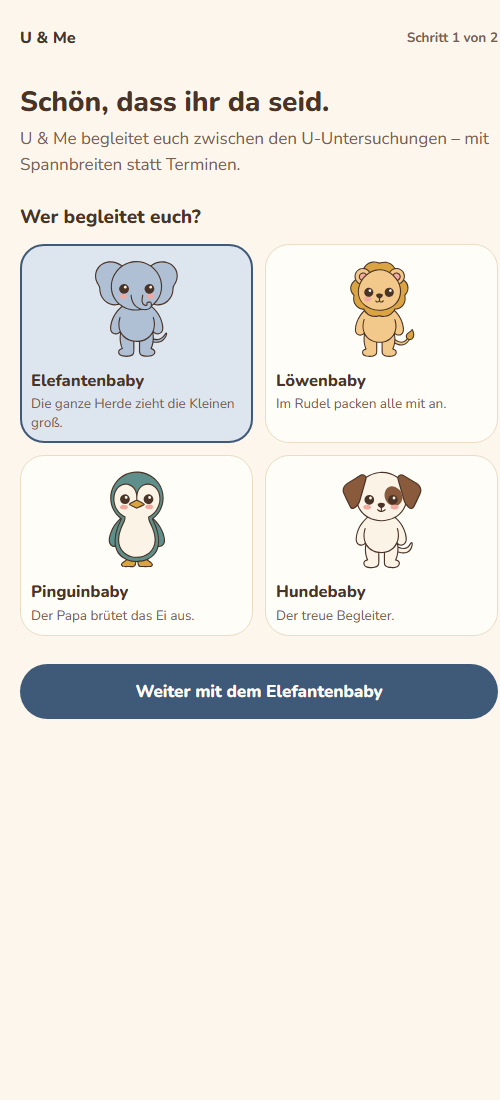
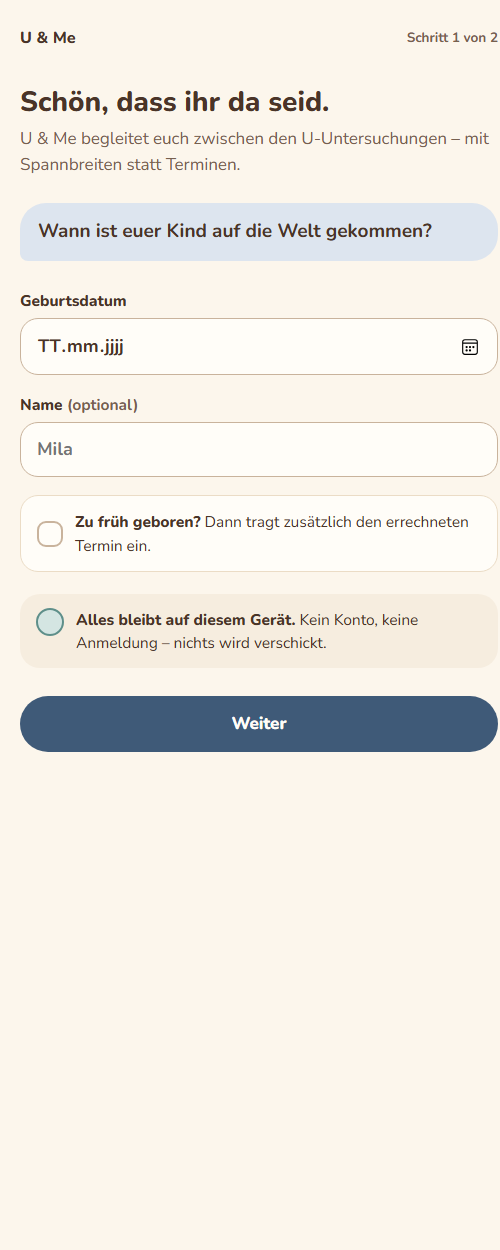
Onboarding umgedreht: erst Angaben, dann Maskottchen
- Schritt 1: Geburtsdatum, Name, Frühchen-Termin, Datenschutz (Prüfung vor dem Weiter)
- Schritt 2: 'Wer begleitet Mila?' – Tierwahl ohne sichtbare Tiernamen, Button 'Los geht's'
- Tiernamen nur noch für Screenreader

diff --git a/src/components/Onboarding.tsx b/src/components/Onboarding.tsx
@@ -1,9 +1,8 @@
 import { useState, type FormEvent } from 'react';
 import { datumBeiAlter, heute, parseDatum } from '../lib/alter';
 import { akzentSetzen } from '../lib/darstellung';
-import { maskottchen, maskottchenBild, maskottchenInfo, type MaskottchenId } from '../lib/inhalte';
+import { maskottchen, maskottchenBild, type MaskottchenId } from '../lib/inhalte';
 import type { Profil } from '../lib/speicher';
-import { Avatar } from './Avatar';
 
 type Props = {
   /** Vorbefüllen bei „Angaben ändern“ */
@@ -14,33 +13,44 @@ type Props = {
 
 const isoHeute = () => heute().toLocaleDateString('sv-SE'); // sv-SE = YYYY-MM-DD in lokaler Zeit
 
+/** Schritt 1: Angaben zum Kind · Schritt 2: Maskottchen wählen */
 export function Onboarding({ vorher, onFertig, onAbbrechen }: Props) {
   const [schritt, setSchritt] = useState<1 | 2>(1);
-  const [tier, setTier] = useState<MaskottchenId>(vorher?.maskottchen ?? 'elefant');
   const [geburtsdatum, setGeburtsdatum] = useState(vorher?.geburtsdatum ?? '');
   const [name, setName] = useState(vorher?.name ?? '');
   const [zuFrueh, setZuFrueh] = useState(!!vorher?.errechneterTermin);
   const [termin, setTermin] = useState(vorher?.errechneterTermin ?? '');
+  const [tier, setTier] = useState<MaskottchenId>(vorher?.maskottchen ?? 'elefant');
   const [fehler, setFehler] = useState('');
+
+  function pruefen(): string {
+    if (!geburtsdatum) return 'Bitte tragt das Geburtsdatum ein.';
+    const geburt = parseDatum(geburtsdatum);
+    if (geburt > heute()) return 'Das Geburtsdatum liegt in der Zukunft – bitte prüft es noch einmal.';
+    if (datumBeiAlter(geburt, { monate: 24 }) <= heute()) {
+      return 'Euer Kind ist schon älter als 2 Jahre. U & Me begleitet euch im Moment nur bis zur U7 – für ältere Kinder folgen die Inhalte später.';
+    }
+    if (zuFrueh && termin && parseDatum(termin) <= geburt) return 'Der errechnete Termin sollte nach dem Geburtsdatum liegen.';
+    return '';
+  }
+
+  function weiter(e: FormEvent) {
+    e.preventDefault();
+    const problem = pruefen();
+    setFehler(problem);
+    if (!problem) {
+      akzentSetzen(tier);
+      setSchritt(2);
+    }
+  }
 
   function tierWaehlen(id: MaskottchenId) {
     setTier(id);
     akzentSetzen(id); // Akzent wechselt sofort mit
   }
 
-  function absenden(e: FormEvent) {
+  function fertig(e: FormEvent) {
     e.preventDefault();
-    if (!geburtsdatum) return setFehler('Bitte tragt das Geburtsdatum ein.');
-    const geburt = parseDatum(geburtsdatum);
-    if (geburt > heute()) return setFehler('Das Geburtsdatum liegt in der Zukunft – bitte prüft es noch einmal.');
-    if (datumBeiAlter(geburt, { monate: 24 }) <= heute()) {
-      return setFehler(
-        'Euer Kind ist schon älter als 2 Jahre. U & Me begleitet euch im Moment nur bis zur U7 – für ältere Kinder folgen die Inhalte später.',
-      );
-    }
-    if (zuFrueh && termin && parseDatum(termin) <= geburt) {
-      return setFehler('Der errechnete Termin sollte nach dem Geburtsdatum liegen.');
-    }
     onFertig({
       maskottchen: tier,
       geburtsdatum,
@@ -51,7 +61,7 @@ export function Onboarding({ vorher, onFertig, onAbbrechen }: Props) {
 
   if (schritt === 1) {
     return (
-      <div className="onboarding">
+      <form className="onboarding" onSubmit={weiter} noValidate>
         <div className="onboarding-kopf">
           {onAbbrechen ? (
             <button type="button" className="zurueck" onClick={onAbbrechen}>← Abbrechen</button>
@@ -64,82 +74,75 @@ export function Onboarding({ vorher, onFertig, onAbbrechen }: Props) {
           <h1>{vorher ? 'Angaben ändern' : 'Schön, dass ihr da seid.'}</h1>
           <p className="gedaempft">U &amp; Me begleitet euch zwischen den U-Untersuchungen – mit Spannbreiten statt Terminen.</p>
         </div>
-        <fieldset className="onboarding-auswahl">
-          <legend>Wer begleitet euch?</legend>
-          <div className="tier-raster">
-            {maskottchen.map((m) => (
-              <label key={m.id} className="tier-karte">
-                <input
-                  type="radio"
-                  name="maskottchen"
-                  value={m.id}
-                  checked={tier === m.id}
-                  onChange={() => tierWaehlen(m.id)}
-                />
-                <span className="tier-bild"><img src={maskottchenBild(m.id)} alt="" /></span>
-                <span className="tier-name">{m.name}</span>
-                <span className="tier-geschichte">{m.geschichte}</span>
-              </label>
-            ))}
-          </div>
-        </fieldset>
-        <div className="onboarding-cta">
-          <button type="button" className="knopf" onClick={() => setSchritt(2)}>
-            Weiter mit {maskottchenInfo(tier).artikel}
-          </button>
+
+        <div className="onboarding-frage">
+          <div className="sprechblase"><p>Wann ist euer Kind auf die Welt gekommen?</p></div>
         </div>
-      </div>
+
+        <div className="felder">
+          <label className="feld">
+            <span className="feld-label">Geburtsdatum</span>
+            <input
+              type="date"
+              value={geburtsdatum}
+              max={isoHeute()}
+              required
+              onChange={(e) => { setGeburtsdatum(e.target.value); setFehler(''); }}
+            />
+          </label>
+          <label className="feld">
+            <span className="feld-label">Name <span className="gedaempft">(optional)</span></span>
+            <input type="text" value={name} placeholder="Mila" autoComplete="off" onChange={(e) => setName(e.target.value)} />
+          </label>
+          <label className="ankreuzen">
+            <input type="checkbox" checked={zuFrueh} onChange={(e) => setZuFrueh(e.target.checked)} />
+            <span className="kaestchen" aria-hidden="true">{zuFrueh ? '✓' : ''}</span>
+            <span><b>Zu früh geboren?</b> Dann tragt zusätzlich den errechneten Termin ein.</span>
+          </label>
+          {zuFrueh && (
+            <label className="feld">
+              <span className="feld-label">Errechneter Termin</span>
+              <input type="date" value={termin} onChange={(e) => { setTermin(e.target.value); setFehler(''); }} />
+            </label>
+          )}
+        </div>
+
+        {fehler && <p className="fehler" role="alert">{fehler}</p>}
+
+        <div className="datenschutz">
+          <div className="hinweisbox">
+            <span className="hinweisbox-punkt bewegung" aria-hidden="true" />
+            <p><b>Alles bleibt auf diesem Gerät.</b> Kein Konto, keine Anmeldung – nichts wird verschickt.</p>
+          </div>
+        </div>
+
+        <div className="onboarding-cta">
+          <button type="submit" className="knopf">Weiter</button>
+        </div>
+      </form>
     );
   }
 
   return (
-    <form className="onboarding" onSubmit={absenden} noValidate>
+    <form className="onboarding" onSubmit={fertig}>
       <div className="onboarding-kopf">
-        <button type="button" className="zurueck" onClick={() => { setSchritt(1); setFehler(''); }}>← Zurück</button>
+        <button type="button" className="zurueck" onClick={() => setSchritt(1)}>← Zurück</button>
         <span className="schritt">Schritt 2 von 2</span>
       </div>
-      <div className="begruessung onboarding-frage">
-        <Avatar tier={tier} groesse={72} />
-        <div className="sprechblase"><p>Wann ist euer Kind auf die Welt gekommen?</p></div>
-      </div>
-
-      <div className="felder">
-        <label className="feld">
-          <span className="feld-label">Geburtsdatum</span>
-          <input
-            type="date"
-            value={geburtsdatum}
-            max={isoHeute()}
-            required
-            onChange={(e) => { setGeburtsdatum(e.target.value); setFehler(''); }}
-          />
-        </label>
-        <label className="feld">
-          <span className="feld-label">Name <span className="gedaempft">(optional)</span></span>
-          <input type="text" value={name} placeholder="Mila" autoComplete="off" onChange={(e) => setName(e.target.value)} />
-        </label>
-        <label className="ankreuzen">
-          <input type="checkbox" checked={zuFrueh} onChange={(e) => setZuFrueh(e.target.checked)} />
-          <span className="kaestchen" aria-hidden="true">{zuFrueh ? '✓' : ''}</span>
-          <span><b>Zu früh geboren?</b> Dann tragt zusätzlich den errechneten Termin ein.</span>
-        </label>
-        {zuFrueh && (
-          <label className="feld">
-            <span className="feld-label">Errechneter Termin</span>
-            <input type="date" value={termin} onChange={(e) => { setTermin(e.target.value); setFehler(''); }} />
-          </label>
-        )}
-      </div>
-
-      {fehler && <p className="fehler" role="alert">{fehler}</p>}
-
-      <div className="datenschutz">
-        <div className="hinweisbox">
-          <span className="hinweisbox-punkt bewegung" aria-hidden="true" />
-          <p><b>Alles bleibt auf diesem Gerät.</b> Kein Konto, keine Anmeldung – nichts wird verschickt.</p>
+      <fieldset className="onboarding-auswahl">
+        <legend>Wer begleitet {name.trim() || 'euch'}?</legend>
+        <p className="gedaempft onboarding-auswahl-text">Sucht euch einen Begleiter aus – er zeigt euch, wo ihr gerade steht.</p>
+        <div className="tier-raster">
+          {maskottchen.map((m) => (
+            <label key={m.id} className="tier-karte">
+              <input type="radio" name="maskottchen" value={m.id} checked={tier === m.id} onChange={() => tierWaehlen(m.id)} />
+              <span className="nur-screenreader">{m.name}</span>
+              <span className="tier-bild"><img src={maskottchenBild(m.id)} alt="" /></span>
+              <span className="tier-geschichte">{m.geschichte}</span>
+            </label>
+          ))}
         </div>
-      </div>
-
+      </fieldset>
       <div className="onboarding-cta">
         <button type="submit" className="knopf">{vorher ? 'Speichern' : 'Los geht’s'}</button>
       </div>

diff --git a/src/lib/inhalte.ts b/src/lib/inhalte.ts
@@ -25,7 +25,7 @@ export type Etappe = {
 };
 export type Untersuchung = { id: string; zeitraum: string; von: Alter; bis: Alter };
 export type MaskottchenId = 'loewe' | 'hund' | 'pinguin' | 'elefant';
-export type Maskottchen = { id: MaskottchenId; name: string; artikel: string; geschichte: string };
+export type Maskottchen = { id: MaskottchenId; name: string; geschichte: string };
 
 export const phasen = phasenDaten.phasen as Phase[];
 export const phasenInfo = { status: phasenDaten.status as Status, quelle: phasenDaten.quelle };
@@ -45,8 +45,6 @@ export const bereichsName: Record<Bereich, string> = {
 /** Pfad zum Maskottchen-Bild – BASE_URL, damit es auch unter einem Unterordner (GitHub Pages) funktioniert */
 export const maskottchenBild = (id: MaskottchenId, avatar = false) =>
   `${import.meta.env.BASE_URL}maskottchen/${id}${avatar ? '-avatar' : ''}.svg`;
-
-export const maskottchenInfo = (id: MaskottchenId) => maskottchen.find((m) => m.id === id)!;
 
 // ---- Phasen und Etappen ----------------------------------------------------
 

diff --git a/src/styles/app.css b/src/styles/app.css
@@ -206,9 +206,10 @@ fieldset { border: 0; margin: 0; padding: 0; min-width: 0; }
 .tier-bild { height: 104px; display: flex; justify-content: center; align-items: flex-end; }
 .tier-bild img { height: 100px; width: 100%; object-fit: contain; object-position: center bottom; }
 .tier-name { font-weight: 800; font-size: 16.5px; margin-top: 8px; }
-.tier-geschichte { font-size: 13.5px; color: var(--farbe-text-gedaempft); line-height: 1.35; }
+.tier-geschichte { font-size: 13.5px; color: var(--farbe-text-gedaempft); line-height: 1.35; margin-top: 8px; text-align: center; }
+.onboarding-auswahl-text { clear: both; margin-bottom: 14px; }
 .onboarding-cta { padding-top: 28px; }
-.onboarding-frage { padding-top: 14px; }
+.onboarding-frage { padding-top: 26px; }
 .onboarding-frage .sprechblase p { font-size: 19px; line-height: 1.35; font-weight: 700; }
 .felder { padding-top: 28px; display: flex; flex-direction: column; gap: 18px; }
 .feld { display: flex; flex-direction: column; gap: 6px; }
